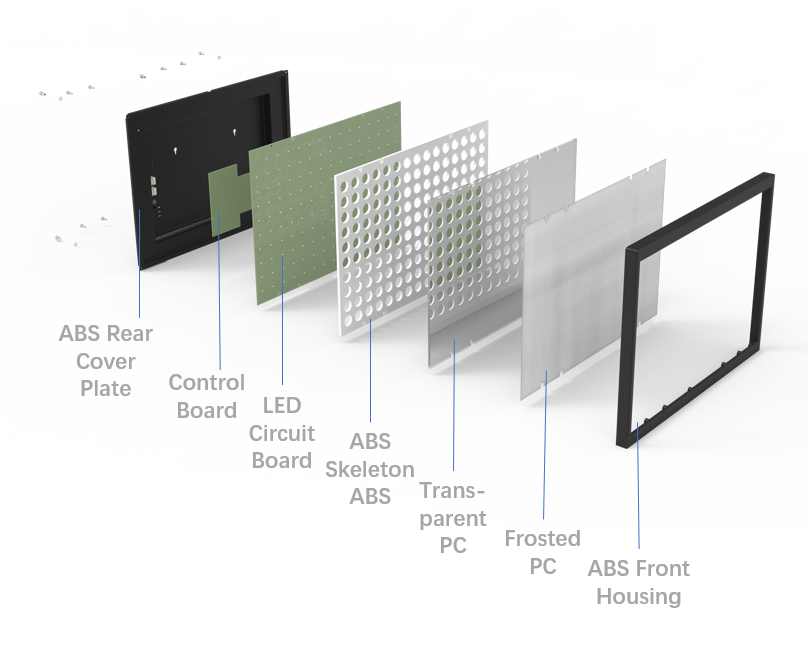
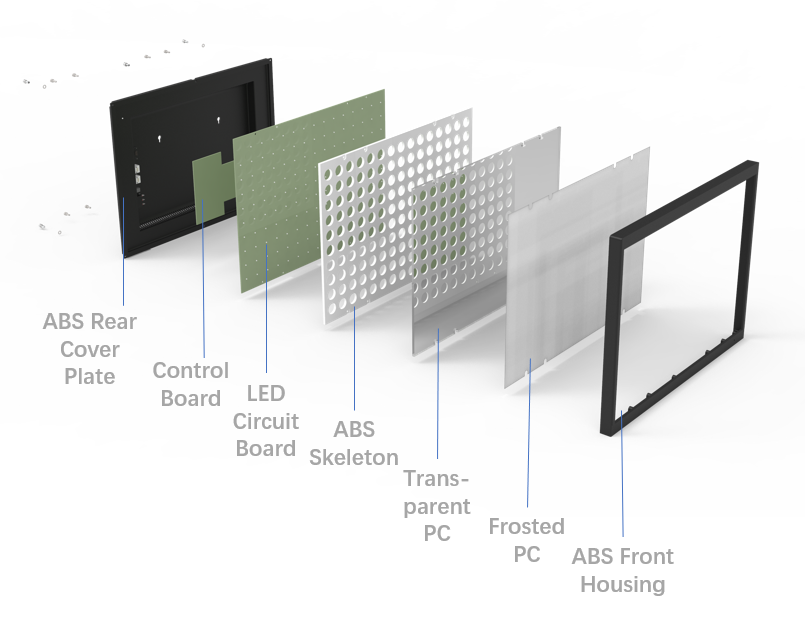
finish the related descriptions

diff --git a/README.md b/README.md
@@ -21,14 +21,29 @@ Finally the person notice the interactive result and do the next step, the proce
 
 
 According to the distance between the person and the Arcade, I devide two areas, A and B. In area A people can play games and in area B there are some randomed 
-animes which can be interacted with people. The depth data of the real-time skeleton data can tell the system whether the person is in area A or area B.
+animes which can be interacted with people. The depth data of the real-time skeleton data can tell the system whether the person is in area A or area B. Some simple
+but natural human gestures are choosed to interact and the following image shows all of them.
+
+![gesture](https://github.com/actbee/Interactive-Light-System-Design-Based-On-Simple-Gesture-Recognition-/blob/master/images/gestures.png?raw=true)
+
+For the considertion of safety, instead using high power strong light LED, I choose low power LED and by paralleling some of them together and let the light
+pass throug some specific meterials placed beyond a nice pixel light can be provided. The principle of producing those beautiful pixel lights is shown in the 
+following image. The visual effect is strongly recongnised with the pixel (hole) width, the light-passing material choosed, the sickness of this material 
+and the distance between the material and the LED light. I have tested multiple possible materials in multiple distances to get the best visual result.
+
+![principle](https://github.com/actbee/Interactive-Light-System-Design-Based-On-Simple-Gesture-Recognition-/blob/master/images/led.png?raw=true)
 
 Here in order to low down the complexity of the circut design, I choose a red and a blue LED light, both in single color. When the blue and red LED light turn on
 together we can see the purple color, which is an obvious result thourgh the principle of Color Mixing(also this is how the main idea of LOGO comes from). So by this
-means I can control in total 4 status of each LED light(red, blue, purple and off) and use them to get some meaningful images.
+mean I can control in total 4 status of each LED light(red, blue, purple and off) and use them to get some meaningful images.
 
 ![testimg](https://github.com/actbee/Interactive-Light-System-Design-Based-On-Simple-Gesture-Recognition-/blob/master/images/test.png?raw=true)
 
+Finally all of these circuts are put all together in the hardware. The following image describes the strutre of the hardware.
+The control board gets the information from the laptop and controls the LED circuit board. Lights from small LED lights pass through the ABS skeleton to get together, 
+forming the pixel light. Finally the pixel light passes through the transparent PC to get the final visual result.
+
+![hardware](https://github.com/actbee/Interactive-Light-System-Design-Based-On-Simple-Gesture-Recognition-/blob/master/images/hardware.png?raw=true)
 
 ## Meaning
 
@@ -37,6 +52,9 @@ something in the past. So I choose a classic SNAKE game, some pixel charachters 
 
 Using a whole new way to interactive with the past things, please try to consider the relationship between the past and the future. If it is possible to bring the 
 old things reborn by the new technologies? And feel the consistant humanism thoughts under the fast growing technologies.
+
+Besides these kinds of art-guided thinking, this project can be expanded to help the old practing their body, help the physical injured patients to get recovery or 
+teach the young kids. Many potential situations need to be discussed.
 
 ## How to run
 
